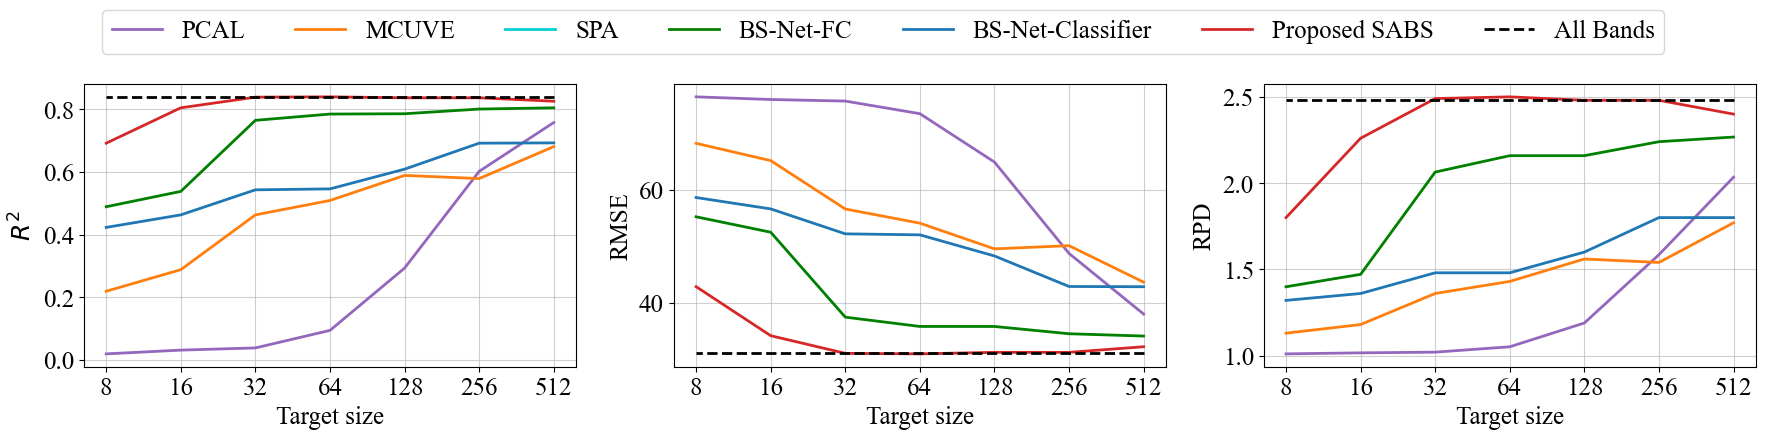
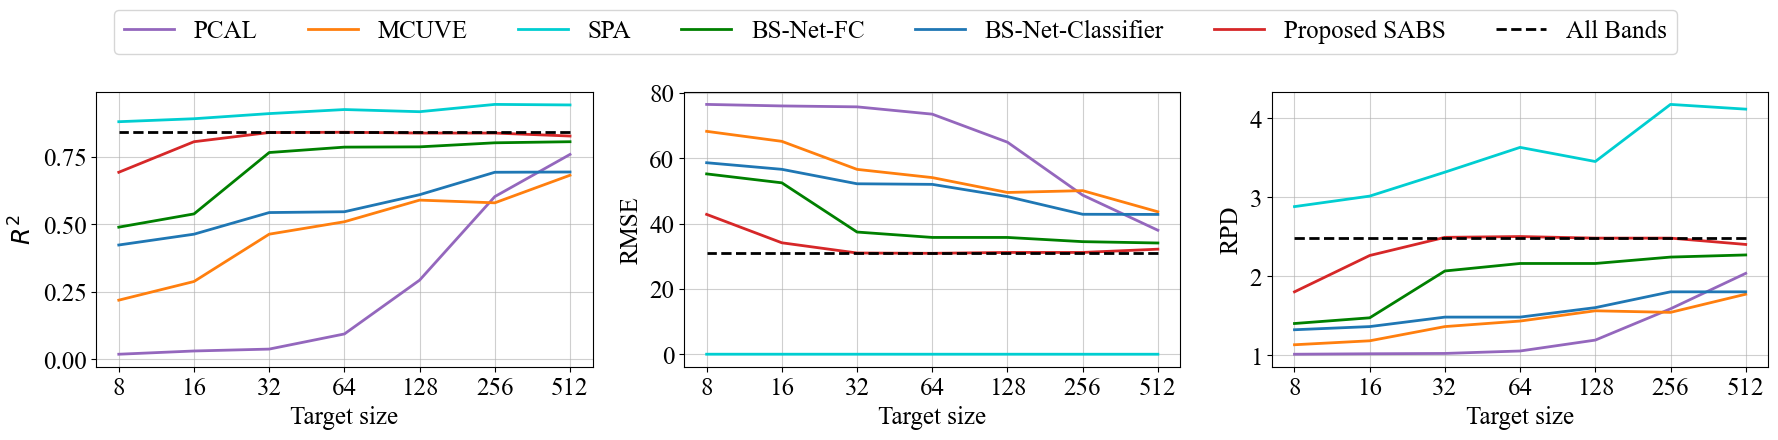
done

diff --git a/algorithms/algorithm_spa2.py b/algorithms/algorithm_spa2.py
@@ -1,0 +1,57 @@
+import numpy as np
+from numba import njit
+from algorithm import Algorithm
+
+@njit
+def fast_spa(X, num_bands, mask, verbose=False):
+    X = X[:, mask]
+    X = np.ascontiguousarray(X)
+    n_samples, n_bands = X.shape
+    selected = []
+    proj = np.zeros(n_samples)
+
+    for i in range(num_bands):
+        norms = np.empty(n_bands)
+        for j in range(n_bands):
+            if j in selected:
+                norms[j] = -1
+                continue
+            col = X[:, j]
+            norms[j] = np.linalg.norm(col - proj)
+        idx = np.argmax(norms)
+        selected.append(idx)
+        v = X[:, idx]
+        v = np.ascontiguousarray(v)
+        proj += (v @ proj) / (v @ v + 1e-8) * v
+    return np.array(selected)
+
+
+def compute_vip_scores(X, y):
+    coef = np.abs(np.corrcoef(X, y, rowvar=False)[-1, :-1])
+    return coef / np.max(coef)
+
+
+class Algorithm_spa2(Algorithm):
+    def __init__(self, target_size: int, dataset, tag, reporter, verbose):
+        super().__init__(target_size, dataset, tag, reporter, verbose)
+
+    def get_selected_indices(self):
+        X = self.dataset.get_train_x()
+        y = self.dataset.get_train_y()
+
+        vip_scores = compute_vip_scores(X, y)
+        mask = vip_scores > 0.3
+
+        if self.verbose:
+            print(f"Running SPA on {np.sum(mask)} features...")
+
+        selected = fast_spa(X, self.target_size, mask, verbose=self.verbose)
+
+        if self.verbose:
+            print(f"Selected indices: {selected}")
+
+        self.set_selected_indices(selected)
+        return self, selected
+
+    def is_cacheable(self):
+        return False

diff --git a/r3_plotter.py b/r3_plotter.py
@@ -13,6 +13,7 @@ ALGS = {
     "all": "All Bands",
     "mcuve": "MCUVE",
     "spa": "SPA",
+    "spa2": "SPA",
     "bsnet": "BS-Net-FC",
     "pcal": "PCAL",
 }
@@ -26,6 +27,7 @@ COLORS = {
     "all": "#2ca02c",
     "mcuve": "#ff7f0e",
     "spa": "#00CED1",
+    "spa2": "#00CED1",
     "bsnet": "#008000",
     "pcal": "#9467bd",
     "v9": "#d62728",
@@ -136,6 +138,6 @@ def plot_separately(source, exclude=None, include=None, out_dir="plots"):
 if __name__ == "__main__":
     plot_separately(
         get_summaries_rec("lucas_results"),
-        include=["pcal", "mcuve", "spa", "bsnet", "v0", "v9", "all"]
+        include=["pcal", "mcuve", "spa2", "bsnet", "v0", "v9", "all"]
         #include=["v9", "all"]
     )

diff --git a/new_runs/main9.py b/new_runs/main9.py
@@ -4,13 +4,13 @@ import os
 os.chdir("..")
 
 if __name__ == '__main__':
-    tag = "pcal_bsnet"
+    tag = "spa2"
     tasks = {
-        "algorithms" : ["pcal", "bsnet"],
+        "algorithms" : ["spa2"],
         "datasets": [
             "lucas"
         ],
-        "target_sizes": [512, 256, 128, 64, 32, 16, 8]
+        "target_sizes": [8, 16, 32, 64, 128, 256, 512]
     }
     ev = TaskRunner(tasks,tag,skip_all_bands=True, verbose=False)
     summary, details = ev.evaluate()
